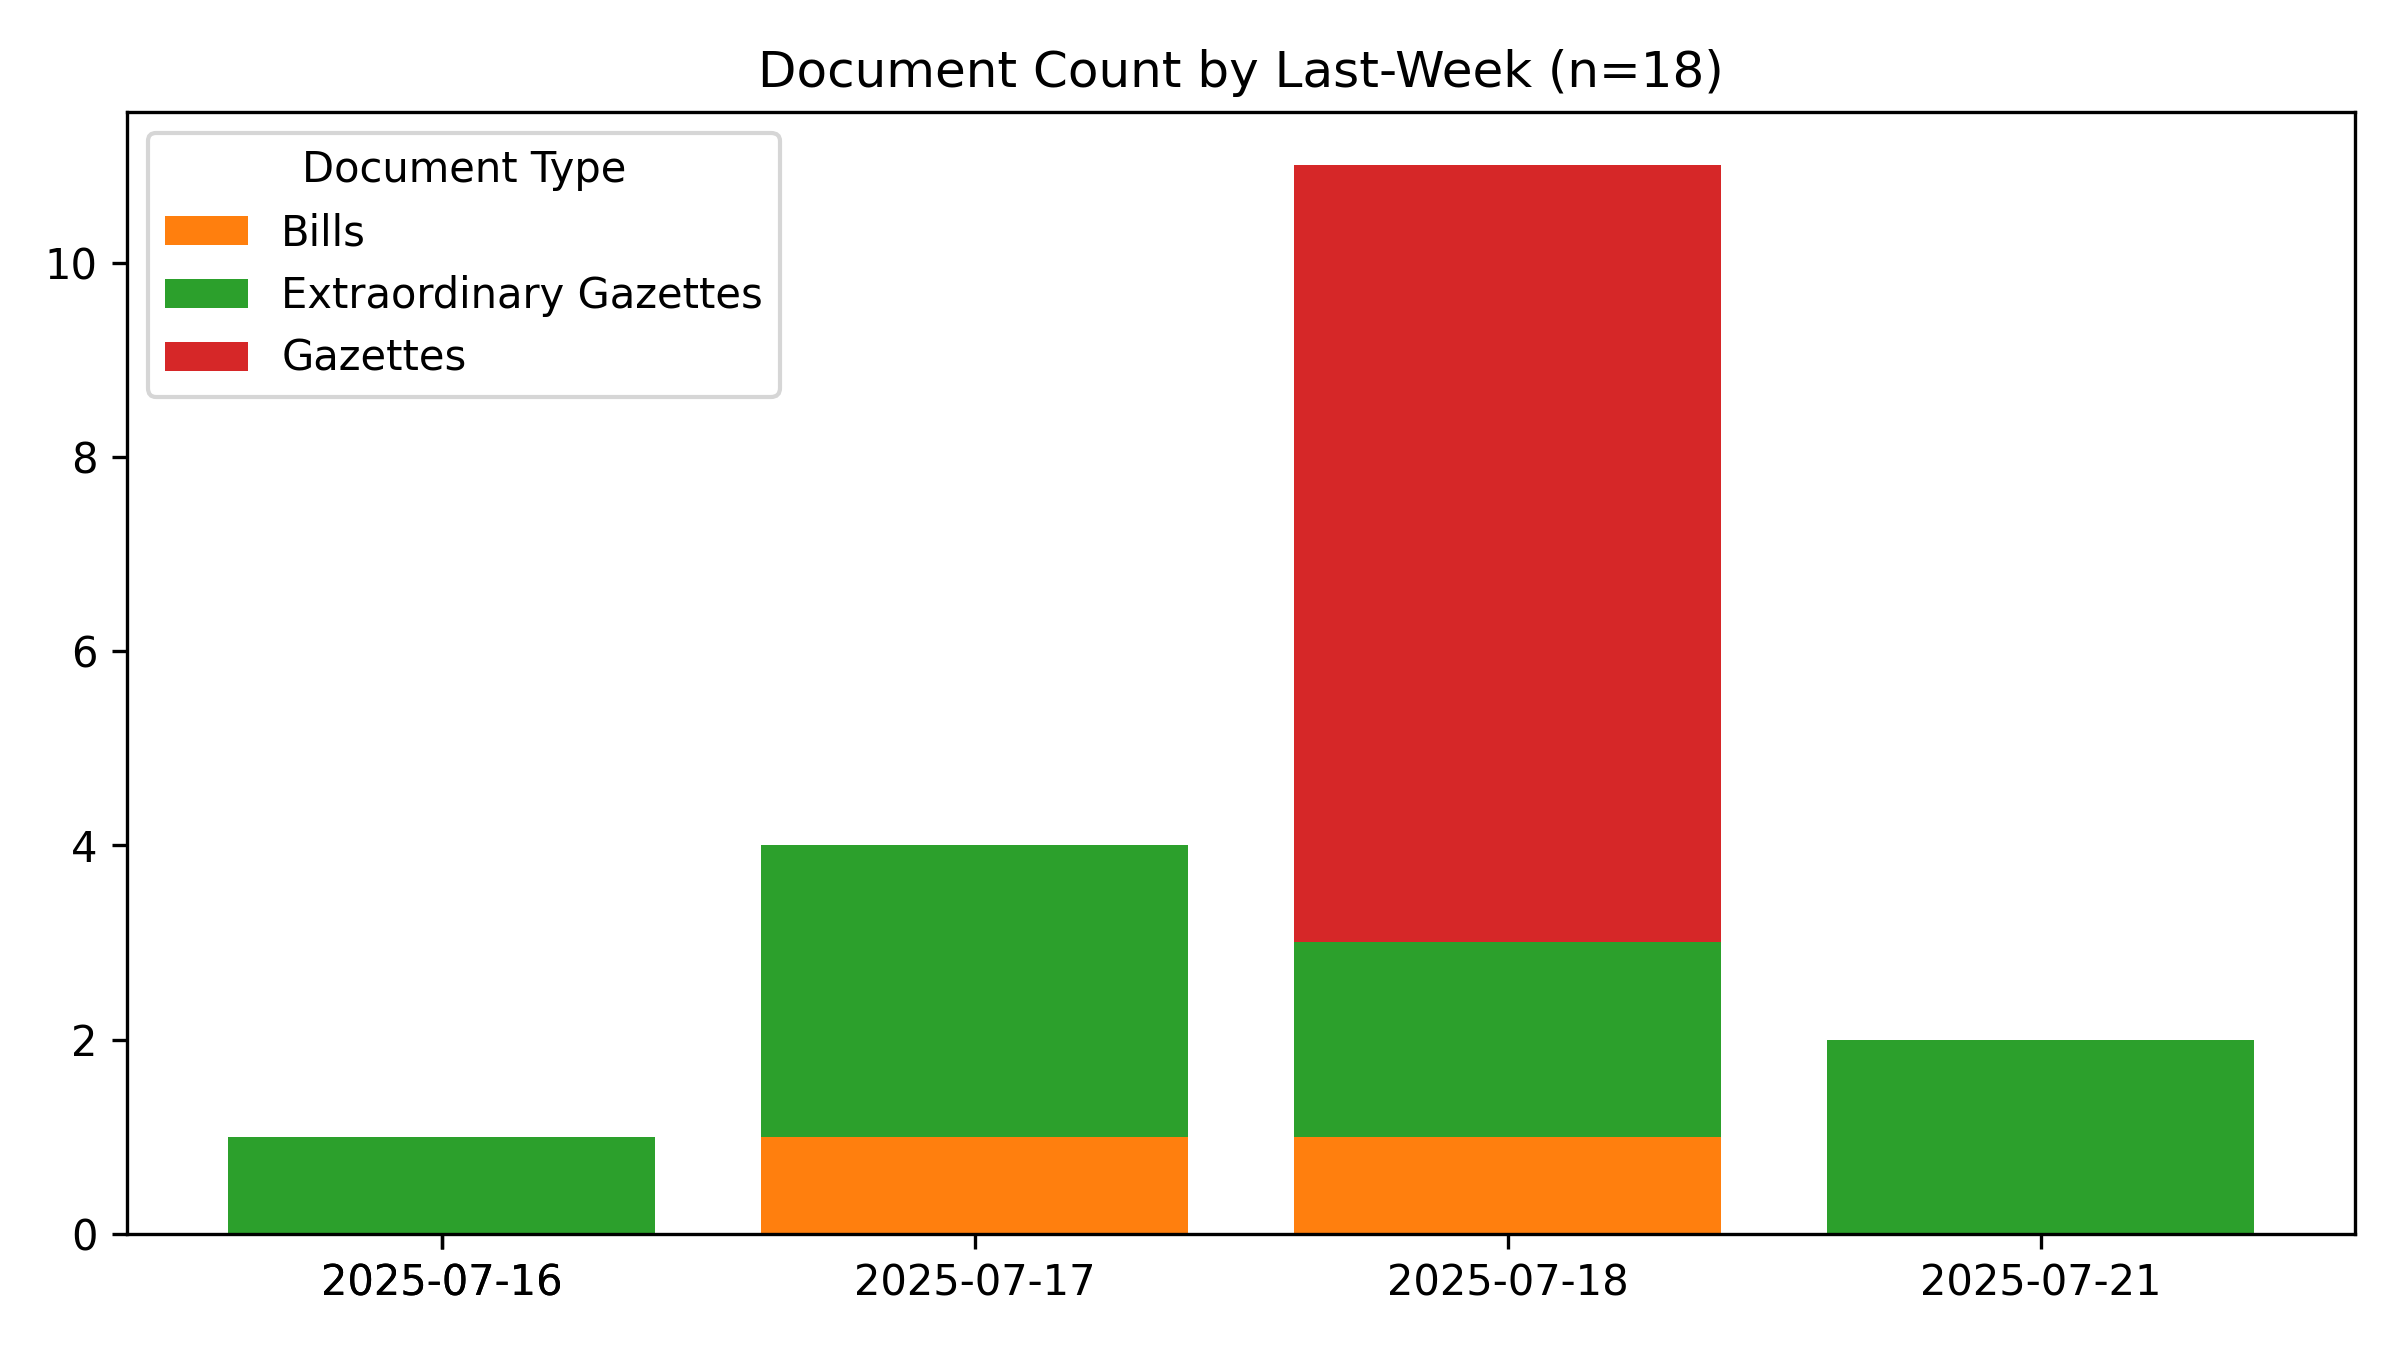
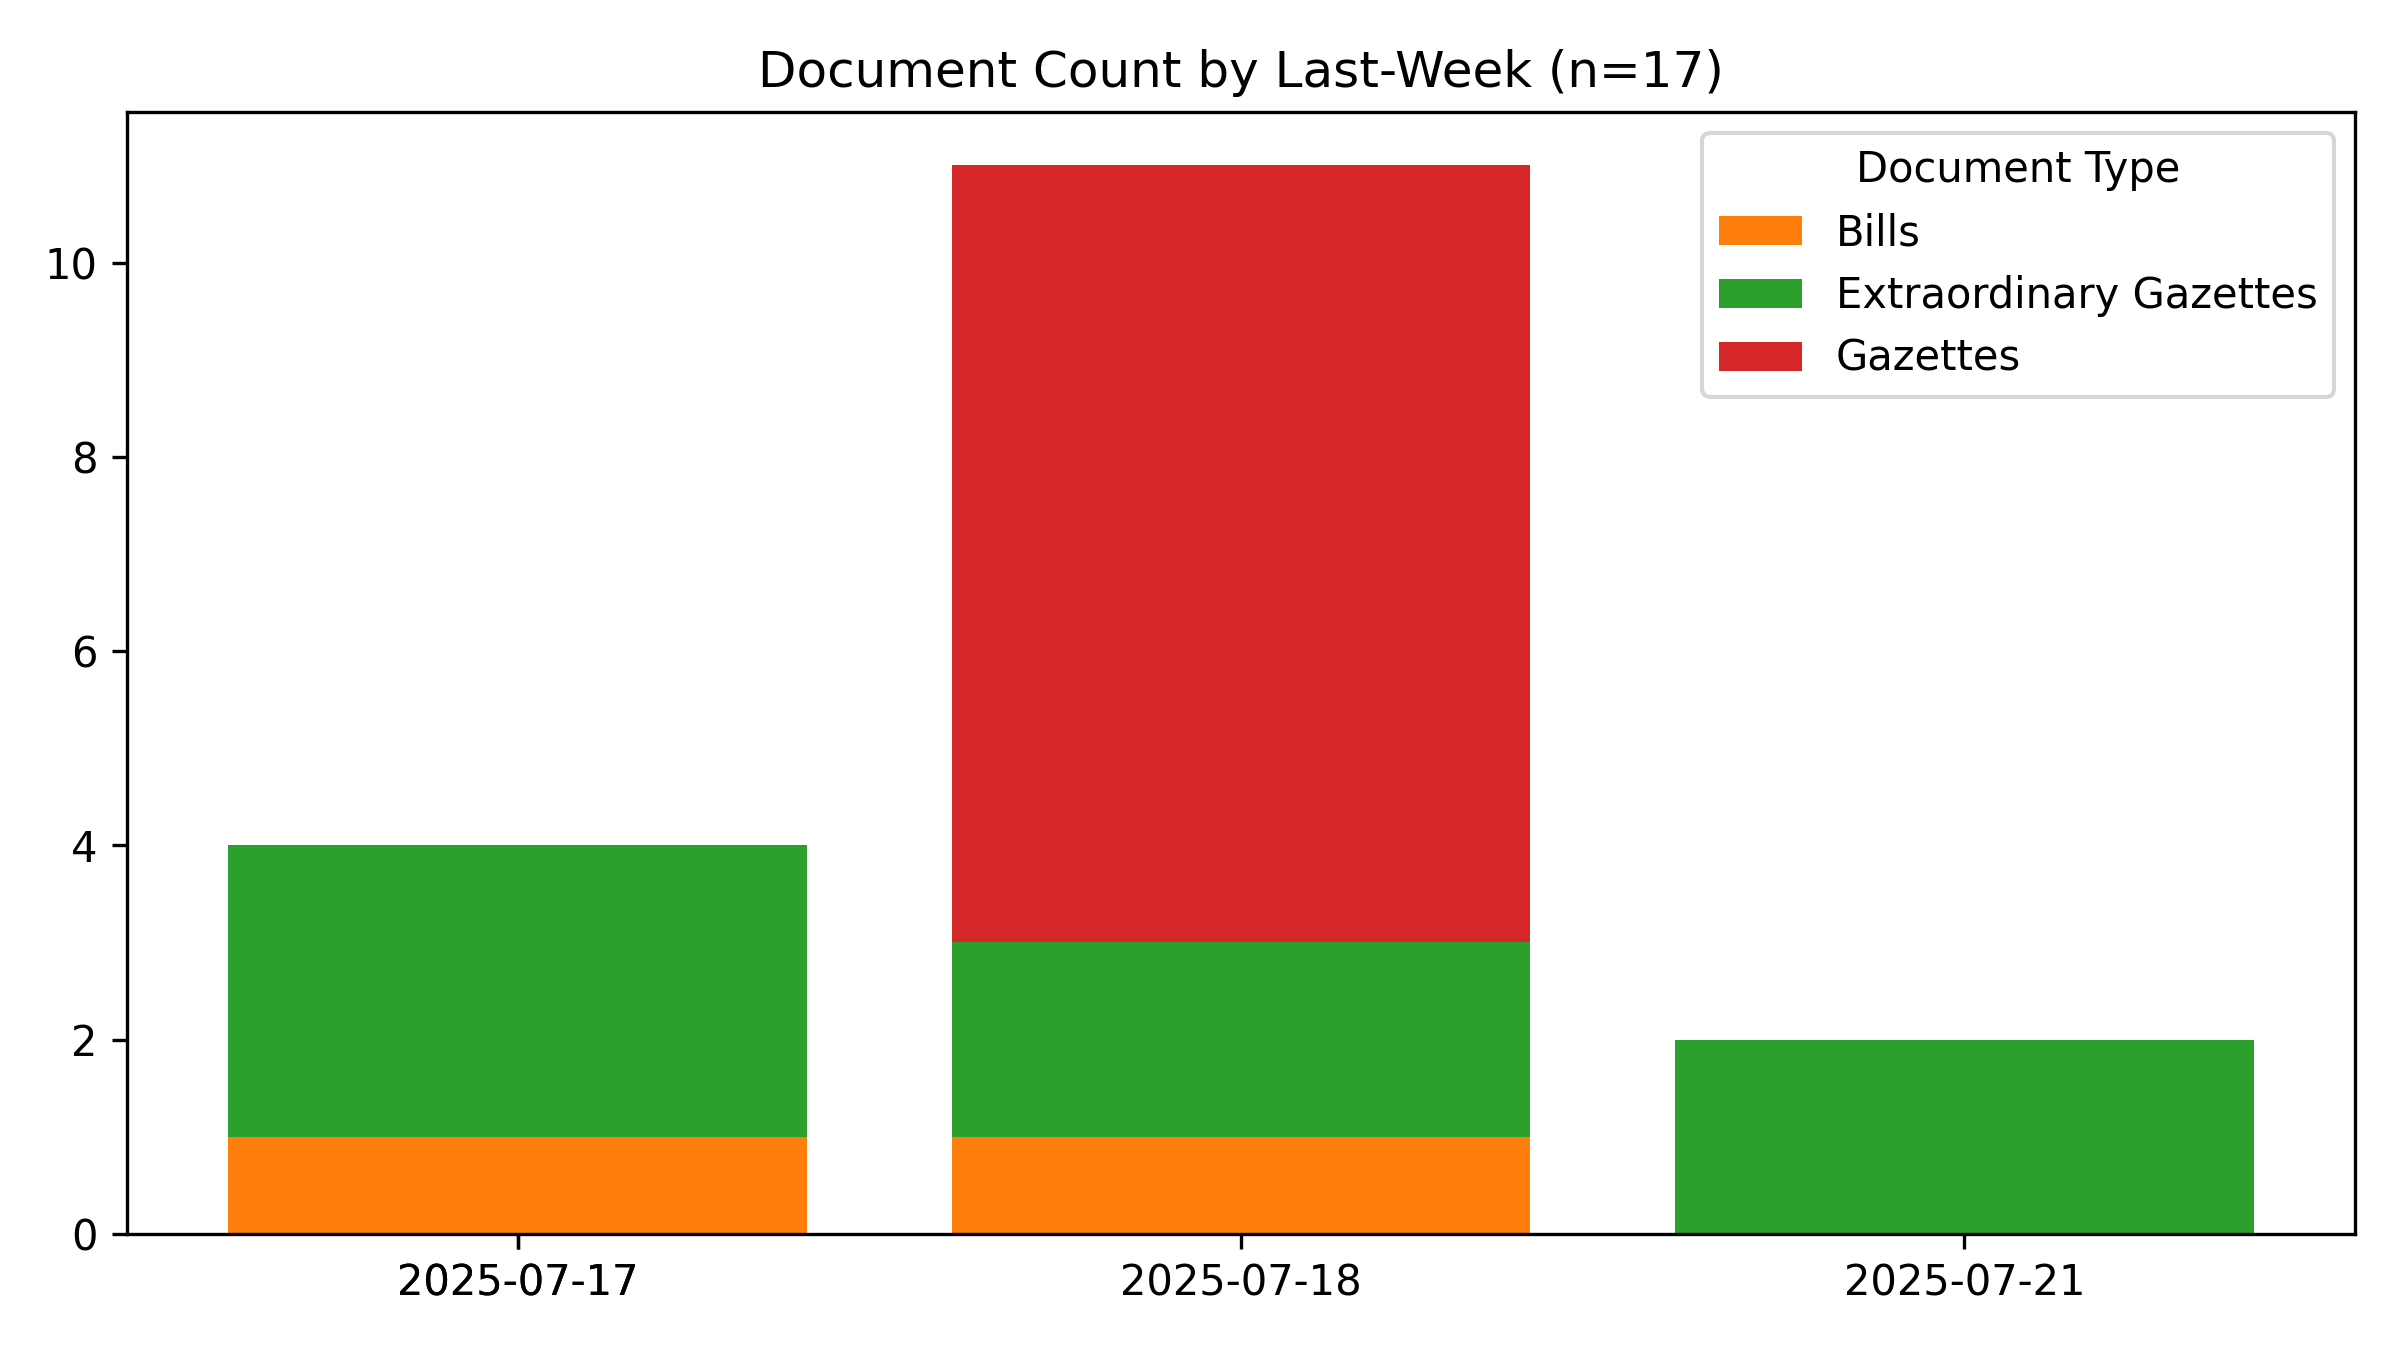
🤖 [data_scraper.yml] 2025-07-24-0048

Changed region(s): [[0.0938, 0.0933, 0.9688, 0.9644], [0.0625, 0.0933, 0.3125, 0.28], [0.6875, 0.0311, 0.7188, 0.0622]]

diff --git a/README.md b/README.md
@@ -1,6 +1,6 @@
 # #SriLanka 🇱🇰 - Legal Documents #Dataset
 
-*Last Updated **2025-07-24 05:23:52**.*
+*Last Updated **2025-07-24 06:18:44**.*
 
 **44,098** documents (40.9 MB), from 1981-01-22 to 2025-07-21.
 
@@ -45,7 +45,7 @@ For best results, use a desktop browser.
 
 ## Recent Documents (Published during the last 7 days)
 
-**18** Documents
+**17** Documents
 
 - 🚨 [2025-07-21] [National Medicines Regulatory Authority - Medicines (Pricing Mechanism for Medicines) Regulations No. 02 of 2025.](https://github.com/nuuuwan/lk_legal_docs_data/tree/main/data/extra-gazettes/2025/2446-34)
 - 🚨 [2025-07-21] [Sri Lanka Customs - Rates of Exchange with effect from 21.07.2025 to 27.07.2025](https://github.com/nuuuwan/lk_legal_docs_data/tree/main/data/extra-gazettes/2025/2446-01)
@@ -64,4 +64,3 @@ For best results, use a desktop browser.
 - 🚨 [2025-07-17] [Minister of Public Administration Provincial Council and Local Government Appointments Under the Notaries Ordinance.](https://github.com/nuuuwan/lk_legal_docs_data/tree/main/data/extra-gazettes/2025/2445-48)
 - 🚨 [2025-07-17] [Department of Local Government - Western Province - Notice under Section 66C(1) Appointed Chairman and Vice Chairman of 03 L.G. Institutions](https://github.com/nuuuwan/lk_legal_docs_data/tree/main/data/extra-gazettes/2025/2445-47)
 - 🚨 [2025-07-17] [Dept. of Local Government - NWP Notice Under Section 66C (4) Appointed Chairman and Vice Chirman to the 02 L.G. Institutions](https://github.com/nuuuwan/lk_legal_docs_data/tree/main/data/extra-gazettes/2025/2445-46)
-- 🚨 [2025-07-16] [2445/32](https://github.com/nuuuwan/lk_legal_docs_data/tree/main/data/extra-gazettes/2025/2445-32)
